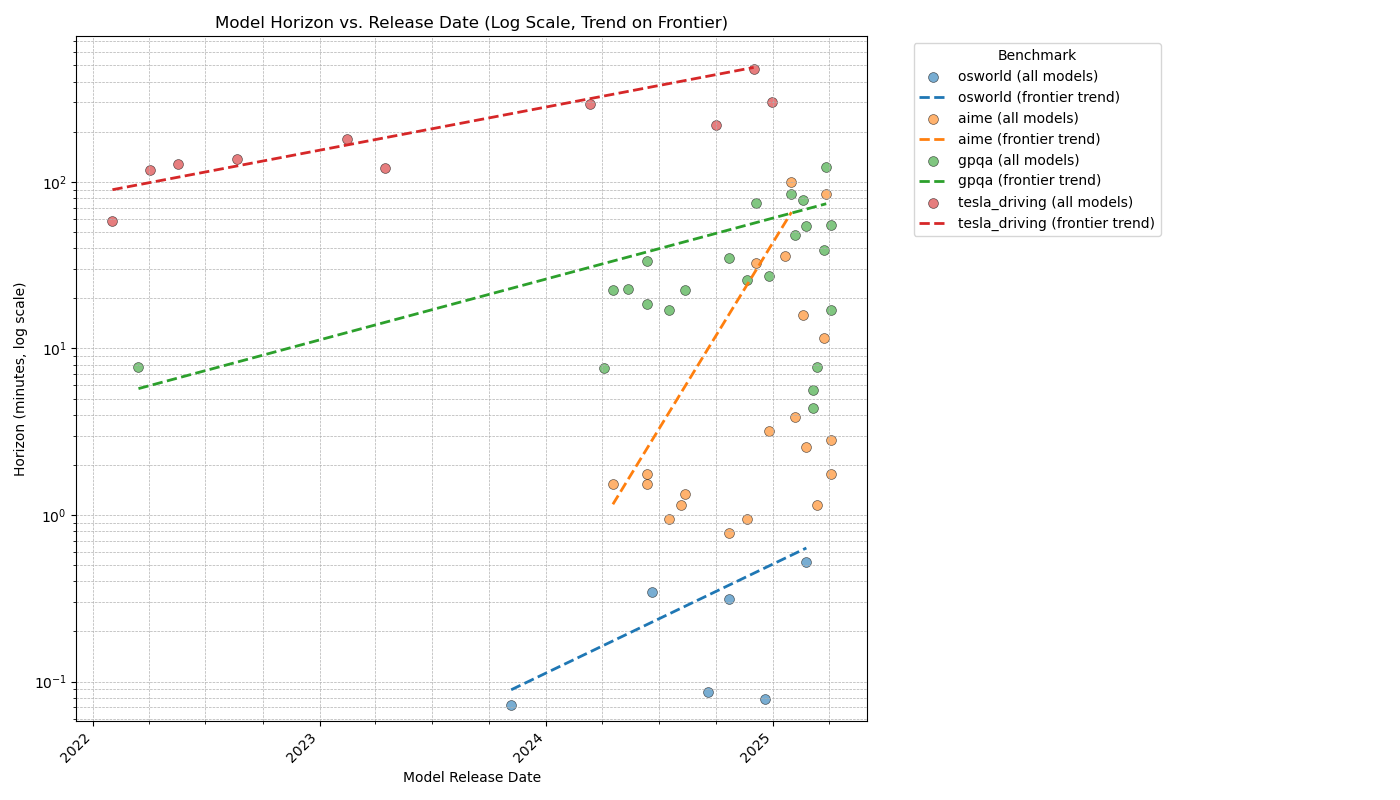
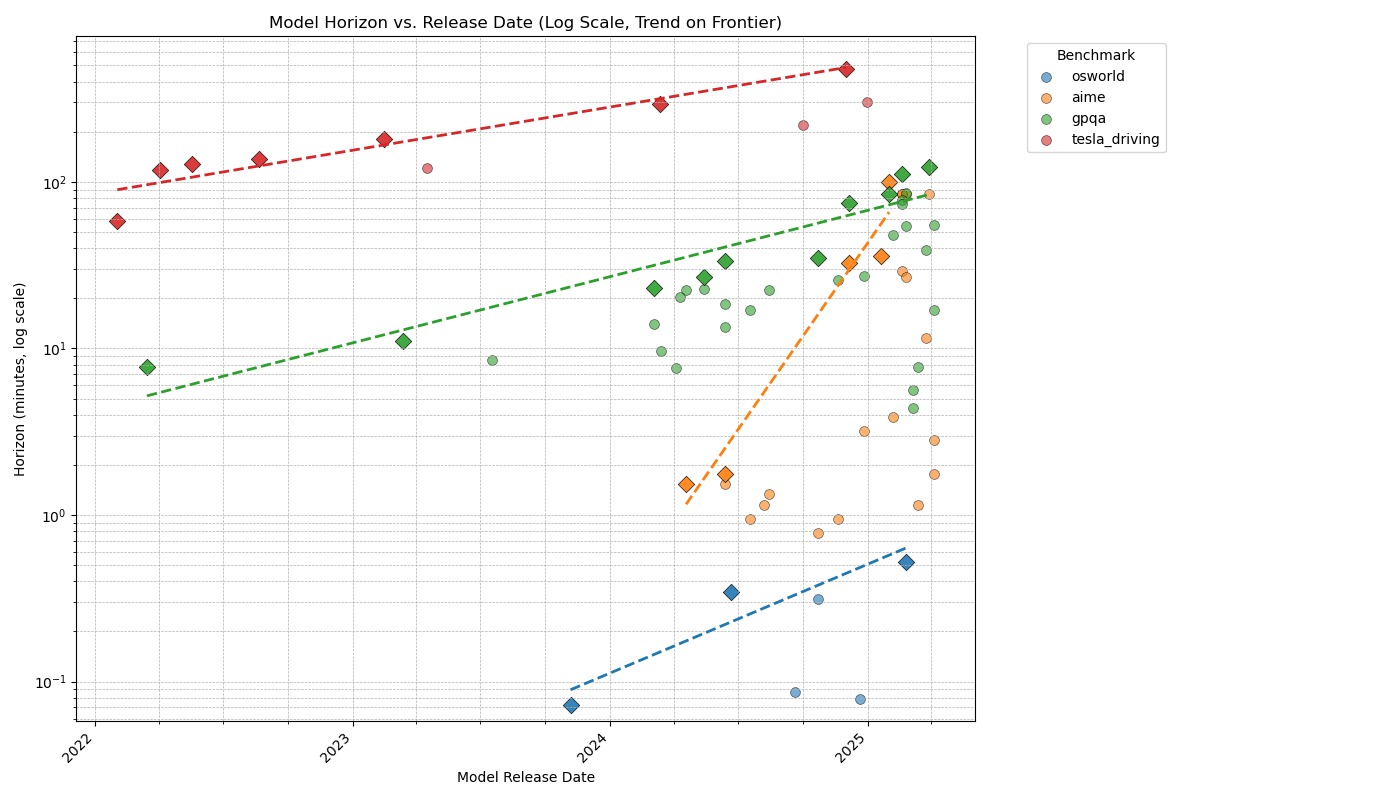
various data and plots improvements

diff --git a/wrangle.py b/wrangle.py
@@ -11,6 +11,56 @@ HORIZONS_DIR = os.path.join(DATA_DIR, 'horizons') # New constant for horizons di
 RELEASE_DATES_FILE = os.path.join(DATA_DIR, 'raw', 'model_info.yaml') # Path to release dates
 MIN_HORIZON_THRESHOLD_SECONDS = 10 * 60  # 10 minutes
 
+def load_release_dates(release_dates_file):
+    """Loads model release dates and handles aliases from a YAML file."""
+    try:
+        with open(release_dates_file, 'r') as f:
+            release_data = yaml.safe_load(f)
+            model_info = release_data.get('model_info', {})
+            if not model_info:
+                error_msg = f"Error: No 'model_info' key found or empty in {release_dates_file}. Cannot proceed."
+                print(error_msg)
+                raise ValueError(error_msg)
+
+        all_releases = []
+        for model, data in model_info.items():
+            release_date = None
+            aliases = []
+            if isinstance(data, dict):
+                release_date = data.get('release_date')
+                aliases = data.get('aliases', [])
+            else: # Assume data is the release date string itself
+                release_date = data
+
+            if release_date:
+                # Add the main model
+                all_releases.append({'model': model, 'release_date': release_date})
+                # Add aliases with the same release date
+                for alias in aliases:
+                    all_releases.append({'model': alias, 'release_date': release_date})
+            else:
+                 print(f"Warning: Missing release_date for model: {model} in {release_dates_file}")
+
+
+        if not all_releases:
+            raise ValueError(f"Warning: No release dates found after processing {release_dates_file}")
+
+        release_df = pd.DataFrame(all_releases)
+        # Attempt to convert 'release_date' to datetime, handling potential 'unknown' values
+        release_df['release_date'] = pd.to_datetime(release_df['release_date'], errors='coerce')
+
+        return release_df
+
+    except FileNotFoundError:
+        error_msg = f"Error: Release dates file not found at {release_dates_file}. Cannot proceed."
+        print(error_msg)
+        raise
+    except Exception as e:
+        error_msg = f"An unexpected error occurred while loading release dates from {release_dates_file}: {e}. Cannot proceed."
+        print(error_msg)
+        raise e
+
+
 def load_data(data_dir):
     """Loads horizon data and merges release dates."""
     # --- Load Horizon Data ---
@@ -51,25 +101,8 @@ def load_data(data_dir):
 
     # --- Load and Merge Release Dates ---
     try:
-        with open(RELEASE_DATES_FILE, 'r') as f:
-            release_data = yaml.safe_load(f)
-            # Extract the 'date' dictionary
-            release_dates_dict = release_data.get('model_info', {})
-            if not release_dates_dict:
-                 # Print error and raise if date key is missing or empty
-                 error_msg = f"Error: No 'model_info' key found or empty in {RELEASE_DATES_FILE}. Cannot proceed."
-                 print(error_msg)
-                 raise ValueError(error_msg)
-                 # horizon_df['release_date'] = pd.NaT
-                 # return horizon_df
-
-        # Flatten nested 'release_date' values if present
-        release_df = pd.DataFrame(
-            [(m, (d.get('release_date') if isinstance(d, dict) else d))
-             for m, d in release_dates_dict.items()],
-            columns=['model', 'release_date']
-        )
-        release_df['release_date'] = pd.to_datetime(release_df['release_date'], errors='coerce')
+        # Call the new function to load release dates
+        release_df = load_release_dates(RELEASE_DATES_FILE)
 
         # Merge with horizon data
         merged_df = pd.merge(horizon_df, release_df, on='model', how='left')
@@ -77,13 +110,20 @@ def load_data(data_dir):
         # Check for models without release dates after merge
         missing_dates = merged_df[merged_df['release_date'].isna()]['model'].unique()
         if len(missing_dates) > 0:
-            print(f"Warning: Missing release dates for models: {list(missing_dates)}")
+            # Filter out models that genuinely had 'unknown' or unparseable dates in the YAML
+            # We only want to warn about models present in horizon data but *completely missing* from release info
+            models_in_release_info = set(release_df['model'])
+            truly_missing = [m for m in missing_dates if m not in models_in_release_info]
+            if truly_missing:
+                print(f"Warning: Missing release dates for models present in horizon data but not found in {RELEASE_DATES_FILE}: {list(truly_missing)}")
+
 
         return merged_df
     except Exception as e:
-        # Print error and raise for any other unexpected issues
-        error_msg = f"An unexpected error occurred while loading/merging release dates: {e}. Cannot proceed."
-        print(error_msg)
+        # Error handling for issues during the load_release_dates call or merge
+        print(f"An error occurred during release date loading or merging: {e}")
+        # Depending on requirements, you might want to return the horizon_df without dates,
+        # or raise the exception. Raising is generally better if dates are critical.
         raise e
 
 

diff --git a/plots.py b/plots.py
@@ -203,22 +203,37 @@ def plot_lines_over_time(df):
     for bench in benchmarks:
         bench_data = plot_df[plot_df['benchmark'] == bench]
         color = benchmark_colors[bench]
+        frontier_data = bench_data[bench_data['is_frontier']]
+        non_frontier_data = bench_data[~bench_data['is_frontier']]
 
-        # Plot all points for the benchmark
+        # Plot non-frontier points (circles)
         ax.scatter(
-            bench_data['release_date'], # Use datetime objects for x-axis plotting
-            bench_data['horizon_minutes'],
+            non_frontier_data['release_date'], # Use datetime objects for x-axis plotting
+            non_frontier_data['horizon_minutes'],
             color=color,
-            label=f"{bench} (all models)",
+            marker='o', # Explicitly circle
+            label=f"{bench}", # Main label for legend
             alpha=0.6,
             s=50,
             edgecolor='k', # Add edge color for better visibility
             linewidth=0.5
         )
 
-        # Fit and plot regression line using only frontier points
-        frontier_data = bench_data[bench_data['is_frontier']]
+        # Plot frontier points (diamonds)
+        ax.scatter(
+            frontier_data['release_date'], # Use datetime objects for x-axis plotting
+            frontier_data['horizon_minutes'],
+            color=color,
+            marker='D', # Diamond for frontier
+            label=f"_{bench}_frontier", # Hidden label for legend
+            alpha=0.9, # Slightly more opaque
+            s=70,      # Slightly larger
+            edgecolor='k',
+            linewidth=0.5
+        )
 
+
+        # Fit and plot regression line using only frontier points
         if len(frontier_data) >= 2: # Need at least two points for a line
             # Perform linear regression on numerical date vs log horizon
             X = frontier_data['release_date_num'].values
@@ -236,19 +251,7 @@ def plot_lines_over_time(df):
             x_line_date = mdates.num2date(x_line_num)
             y_line = 10**y_line_log # Convert back from log10
 
-            ax.plot(x_line_date, y_line, color=color, linestyle='--', linewidth=2, label=f"{bench} (frontier trend)")
-        elif not frontier_data.empty:
-            # Mark frontier points if only one exists, or too few for trend
-             ax.scatter(
-                frontier_data['release_date'],
-                frontier_data['horizon_minutes'],
-                color=color,
-                marker='X', # Different marker for single/non-trend frontier points
-                s=100,      # Larger size
-                label=f"{bench} (frontier point)",
-                edgecolor='k',
-                linewidth=1
-             )
+            ax.plot(x_line_date, y_line, color=color, linestyle='--', linewidth=2, label=f"_{bench}_trend") # Hidden label
 
 
     # Set y-axis to log scale
